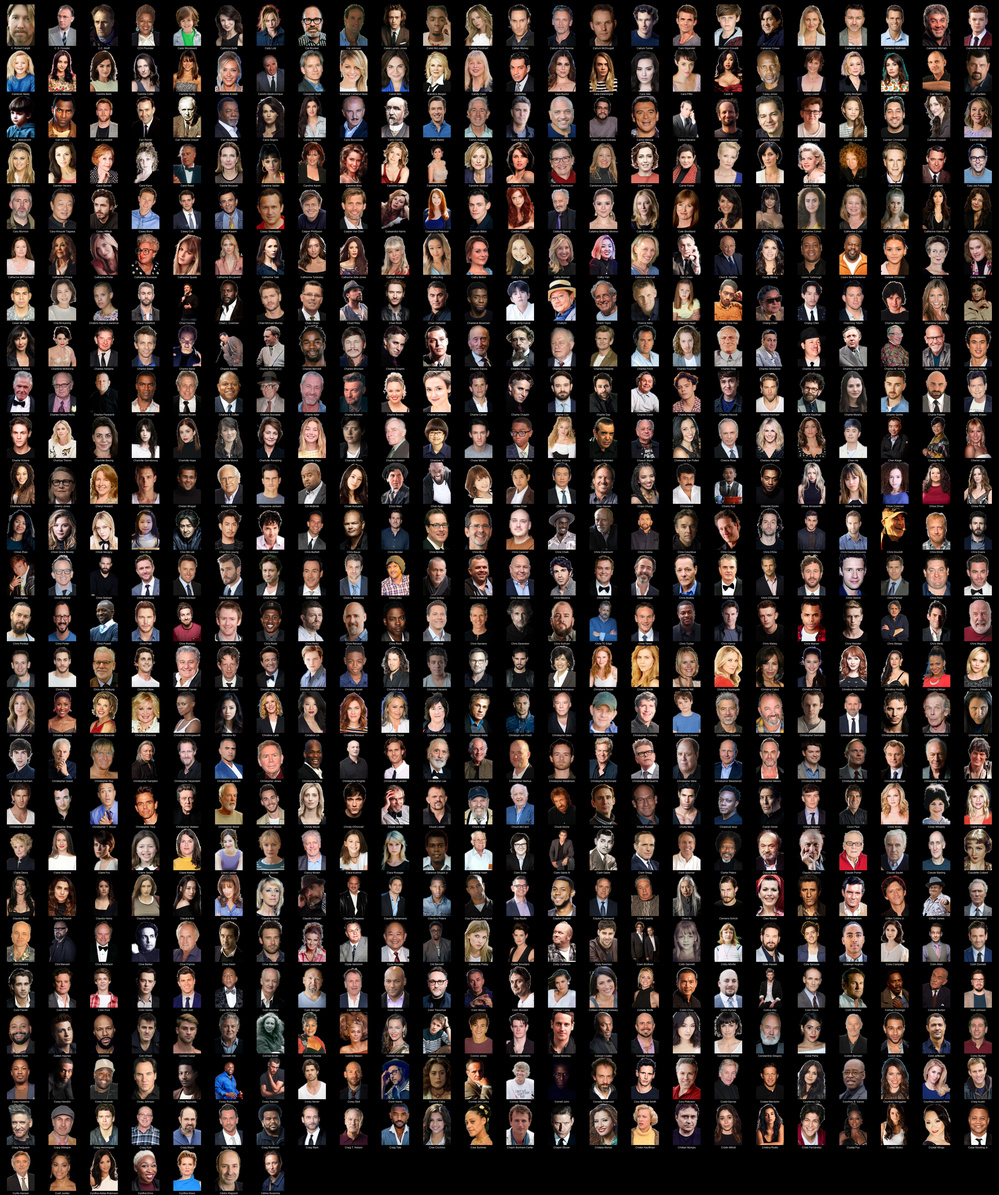
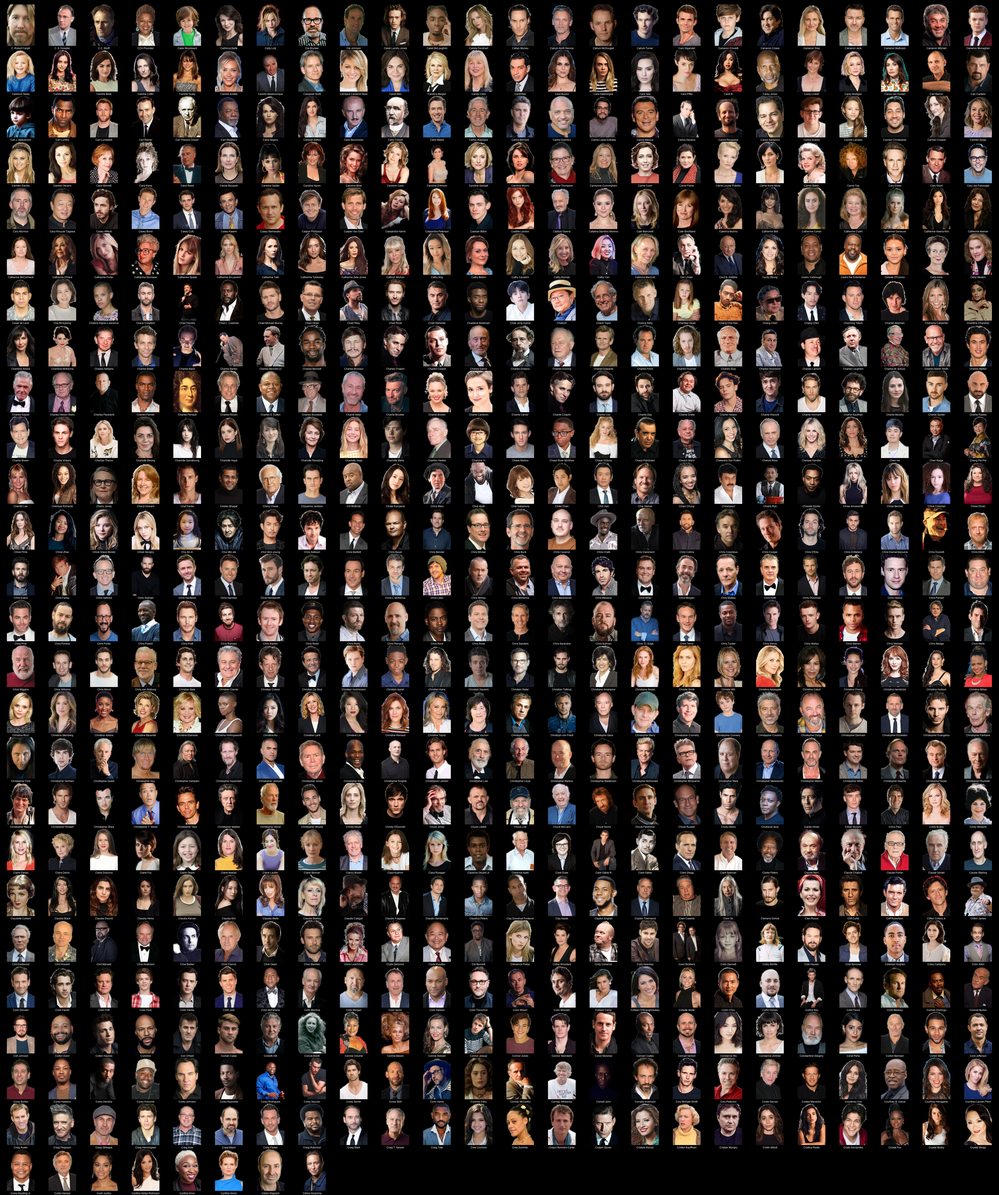
more people

Changed region(s): [[0.0, 0.3118, 1.0, 1.0]]

diff --git a/README.md b/README.md
@@ -1,4 +1,4 @@
-# Kometa People Images - Transparent (transparent) (9362 Images)
+# Kometa People Images - Transparent (transparent) (9366 Images)
 
 <details><summary><a href="'">' (1 Images)</a></summary>
 
@@ -1246,7 +1246,7 @@
 * [Béla Tarr](https://raw.githubusercontent.com/Kometa-Team/People-Images-transparent/master/B/Images/B%C3%A9la%20Tarr.png)
 * [Bérénice Bejo](https://raw.githubusercontent.com/Kometa-Team/People-Images-transparent/master/B/Images/B%C3%A9r%C3%A9nice%20Bejo.png)
 </details>
-<details><summary><a href="C">C (607 Images)</a></summary>
+<details><summary><a href="C">C (608 Images)</a></summary>
 
 * [C. Robert Cargill](https://raw.githubusercontent.com/Kometa-Team/People-Images-transparent/master/C/Images/C.%20Robert%20Cargill.png)
 * [C. S. Forester](https://raw.githubusercontent.com/Kometa-Team/People-Images-transparent/master/C/Images/C.%20S.%20Forester.png)
@@ -1444,6 +1444,7 @@
 * [Charles Nelson Reilly](https://raw.githubusercontent.com/Kometa-Team/People-Images-transparent/master/C/Images/Charles%20Nelson%20Reilly.png)
 * [Charles Paraventi](https://raw.githubusercontent.com/Kometa-Team/People-Images-transparent/master/C/Images/Charles%20Paraventi.png)
 * [Charles Parnell](https://raw.githubusercontent.com/Kometa-Team/People-Images-transparent/master/C/Images/Charles%20Parnell.png)
+* [Charles Perrault](https://raw.githubusercontent.com/Kometa-Team/People-Images-transparent/master/C/Images/Charles%20Perrault.png)
 * [Charles Roven](https://raw.githubusercontent.com/Kometa-Team/People-Images-transparent/master/C/Images/Charles%20Roven.png)
 * [Charles S. Dutton](https://raw.githubusercontent.com/Kometa-Team/People-Images-transparent/master/C/Images/Charles%20S.%20Dutton.png)
 * [Charles Scorsese](https://raw.githubusercontent.com/Kometa-Team/People-Images-transparent/master/C/Images/Charles%20Scorsese.png)
@@ -2978,7 +2979,7 @@
 * [Fritz von Friedl](https://raw.githubusercontent.com/Kometa-Team/People-Images-transparent/master/F/Images/Fritz%20von%20Friedl.png)
 * [Frédéric North](https://raw.githubusercontent.com/Kometa-Team/People-Images-transparent/master/F/Images/Fr%C3%A9d%C3%A9ric%20North.png)
 </details>
-<details><summary><a href="G">G (319 Images)</a></summary>
+<details><summary><a href="G">G (320 Images)</a></summary>
 
 * [G-Eazy](https://raw.githubusercontent.com/Kometa-Team/People-Images-transparent/master/G/Images/G-Eazy.png)
 * [G. D. Spradlin](https://raw.githubusercontent.com/Kometa-Team/People-Images-transparent/master/G/Images/G.%20D.%20Spradlin.png)
@@ -3208,6 +3209,7 @@
 * [Goran Kostić](https://raw.githubusercontent.com/Kometa-Team/People-Images-transparent/master/G/Images/Goran%20Kosti%C4%87.png)
 * [Goran Visnjic](https://raw.githubusercontent.com/Kometa-Team/People-Images-transparent/master/G/Images/Goran%20Visnjic.png)
 * [Gordon Danniels](https://raw.githubusercontent.com/Kometa-Team/People-Images-transparent/master/G/Images/Gordon%20Danniels.png)
+* [Gordon Gray](https://raw.githubusercontent.com/Kometa-Team/People-Images-transparent/master/G/Images/Gordon%20Gray.png)
 * [Gordon Hessler](https://raw.githubusercontent.com/Kometa-Team/People-Images-transparent/master/G/Images/Gordon%20Hessler.png)
 * [Gordon Liu Chia-Hui](https://raw.githubusercontent.com/Kometa-Team/People-Images-transparent/master/G/Images/Gordon%20Liu%20Chia-Hui.png)
 * [Gordon Ramsay](https://raw.githubusercontent.com/Kometa-Team/People-Images-transparent/master/G/Images/Gordon%20Ramsay.png)
@@ -5659,7 +5661,7 @@
 * [Léa Seydoux](https://raw.githubusercontent.com/Kometa-Team/People-Images-transparent/master/L/Images/L%C3%A9a%20Seydoux.png)
 * [Lúcio Andrey](https://raw.githubusercontent.com/Kometa-Team/People-Images-transparent/master/L/Images/L%C3%BAcio%20Andrey.png)
 </details>
-<details><summary><a href="M">M (870 Images)</a></summary>
+<details><summary><a href="M">M (871 Images)</a></summary>
 
 * [M'laah Kaur Singh](https://raw.githubusercontent.com/Kometa-Team/People-Images-transparent/master/M/Images/M%27laah%20Kaur%20Singh.png)
 * [M. Emmet Walsh](https://raw.githubusercontent.com/Kometa-Team/People-Images-transparent/master/M/Images/M.%20Emmet%20Walsh.png)
@@ -6427,6 +6429,7 @@
 * [Mike Starr](https://raw.githubusercontent.com/Kometa-Team/People-Images-transparent/master/M/Images/Mike%20Starr.png)
 * [Mike Troll](https://raw.githubusercontent.com/Kometa-Team/People-Images-transparent/master/M/Images/Mike%20Troll.png)
 * [Mike Vogel](https://raw.githubusercontent.com/Kometa-Team/People-Images-transparent/master/M/Images/Mike%20Vogel.png)
+* [Mike White](https://raw.githubusercontent.com/Kometa-Team/People-Images-transparent/master/M/Images/Mike%20White.png)
 * [Mikhail Gorevoy](https://raw.githubusercontent.com/Kometa-Team/People-Images-transparent/master/M/Images/Mikhail%20Gorevoy.png)
 * [Miki Esparbé](https://raw.githubusercontent.com/Kometa-Team/People-Images-transparent/master/M/Images/Miki%20Esparb%C3%A9.png)
 * [Mikkel Boe Følsgaard](https://raw.githubusercontent.com/Kometa-Team/People-Images-transparent/master/M/Images/Mikkel%20Boe%20F%C3%B8lsgaard.png)
@@ -6532,7 +6535,7 @@
 * [Måns Nathanaelson](https://raw.githubusercontent.com/Kometa-Team/People-Images-transparent/master/M/Images/M%C3%A5ns%20Nathanaelson.png)
 * [Mélanie Laurent](https://raw.githubusercontent.com/Kometa-Team/People-Images-transparent/master/M/Images/M%C3%A9lanie%20Laurent.png)
 </details>
-<details><summary><a href="N">N (261 Images)</a></summary>
+<details><summary><a href="N">N (262 Images)</a></summary>
 
 * [N.T. Rama Rao Jr.](https://raw.githubusercontent.com/Kometa-Team/People-Images-transparent/master/N/Images/N.T.%20Rama%20Rao%20Jr..png)
 * [Na Hong-jin](https://raw.githubusercontent.com/Kometa-Team/People-Images-transparent/master/N/Images/Na%20Hong-jin.png)
@@ -6687,6 +6690,7 @@
 * [Nick Park](https://raw.githubusercontent.com/Kometa-Team/People-Images-transparent/master/N/Images/Nick%20Park.png)
 * [Nick Robinson](https://raw.githubusercontent.com/Kometa-Team/People-Images-transparent/master/N/Images/Nick%20Robinson.png)
 * [Nick Sagar](https://raw.githubusercontent.com/Kometa-Team/People-Images-transparent/master/N/Images/Nick%20Sagar.png)
+* [Nick Schenk](https://raw.githubusercontent.com/Kometa-Team/People-Images-transparent/master/N/Images/Nick%20Schenk.png)
 * [Nick Searcy](https://raw.githubusercontent.com/Kometa-Team/People-Images-transparent/master/N/Images/Nick%20Searcy.png)
 * [Nick Swardson](https://raw.githubusercontent.com/Kometa-Team/People-Images-transparent/master/N/Images/Nick%20Swardson.png)
 * [Nick Thune](https://raw.githubusercontent.com/Kometa-Team/People-Images-transparent/master/N/Images/Nick%20Thune.png)

diff --git a/C/README.md b/C/README.md
@@ -1,4 +1,4 @@
-# Kometa People Images - Transparent (transparent) - C (607 Images)
+# Kometa People Images - Transparent (transparent) - C (608 Images)
 ![Grid](grid.jpg)
 
 * [C. Robert Cargill](https://raw.githubusercontent.com/Kometa-Team/People-Images-transparent/master/C/Images/C.%20Robert%20Cargill.png)
@@ -197,6 +197,7 @@
 * [Charles Nelson Reilly](https://raw.githubusercontent.com/Kometa-Team/People-Images-transparent/master/C/Images/Charles%20Nelson%20Reilly.png)
 * [Charles Paraventi](https://raw.githubusercontent.com/Kometa-Team/People-Images-transparent/master/C/Images/Charles%20Paraventi.png)
 * [Charles Parnell](https://raw.githubusercontent.com/Kometa-Team/People-Images-transparent/master/C/Images/Charles%20Parnell.png)
+* [Charles Perrault](https://raw.githubusercontent.com/Kometa-Team/People-Images-transparent/master/C/Images/Charles%20Perrault.png)
 * [Charles Roven](https://raw.githubusercontent.com/Kometa-Team/People-Images-transparent/master/C/Images/Charles%20Roven.png)
 * [Charles S. Dutton](https://raw.githubusercontent.com/Kometa-Team/People-Images-transparent/master/C/Images/Charles%20S.%20Dutton.png)
 * [Charles Scorsese](https://raw.githubusercontent.com/Kometa-Team/People-Images-transparent/master/C/Images/Charles%20Scorsese.png)

diff --git a/M/README.md b/M/README.md
@@ -1,4 +1,4 @@
-# Kometa People Images - Transparent (transparent) - M (870 Images)
+# Kometa People Images - Transparent (transparent) - M (871 Images)
 ![Grid](grid.jpg)
 
 * [M'laah Kaur Singh](https://raw.githubusercontent.com/Kometa-Team/People-Images-transparent/master/M/Images/M%27laah%20Kaur%20Singh.png)
@@ -767,6 +767,7 @@
 * [Mike Starr](https://raw.githubusercontent.com/Kometa-Team/People-Images-transparent/master/M/Images/Mike%20Starr.png)
 * [Mike Troll](https://raw.githubusercontent.com/Kometa-Team/People-Images-transparent/master/M/Images/Mike%20Troll.png)
 * [Mike Vogel](https://raw.githubusercontent.com/Kometa-Team/People-Images-transparent/master/M/Images/Mike%20Vogel.png)
+* [Mike White](https://raw.githubusercontent.com/Kometa-Team/People-Images-transparent/master/M/Images/Mike%20White.png)
 * [Mikhail Gorevoy](https://raw.githubusercontent.com/Kometa-Team/People-Images-transparent/master/M/Images/Mikhail%20Gorevoy.png)
 * [Miki Esparbé](https://raw.githubusercontent.com/Kometa-Team/People-Images-transparent/master/M/Images/Miki%20Esparb%C3%A9.png)
 * [Mikkel Boe Følsgaard](https://raw.githubusercontent.com/Kometa-Team/People-Images-transparent/master/M/Images/Mikkel%20Boe%20F%C3%B8lsgaard.png)

diff --git a/G/README.md b/G/README.md
@@ -1,4 +1,4 @@
-# Kometa People Images - Transparent (transparent) - G (319 Images)
+# Kometa People Images - Transparent (transparent) - G (320 Images)
 ![Grid](grid.jpg)
 
 * [G-Eazy](https://raw.githubusercontent.com/Kometa-Team/People-Images-transparent/master/G/Images/G-Eazy.png)
@@ -229,6 +229,7 @@
 * [Goran Kostić](https://raw.githubusercontent.com/Kometa-Team/People-Images-transparent/master/G/Images/Goran%20Kosti%C4%87.png)
 * [Goran Visnjic](https://raw.githubusercontent.com/Kometa-Team/People-Images-transparent/master/G/Images/Goran%20Visnjic.png)
 * [Gordon Danniels](https://raw.githubusercontent.com/Kometa-Team/People-Images-transparent/master/G/Images/Gordon%20Danniels.png)
+* [Gordon Gray](https://raw.githubusercontent.com/Kometa-Team/People-Images-transparent/master/G/Images/Gordon%20Gray.png)
 * [Gordon Hessler](https://raw.githubusercontent.com/Kometa-Team/People-Images-transparent/master/G/Images/Gordon%20Hessler.png)
 * [Gordon Liu Chia-Hui](https://raw.githubusercontent.com/Kometa-Team/People-Images-transparent/master/G/Images/Gordon%20Liu%20Chia-Hui.png)
 * [Gordon Ramsay](https://raw.githubusercontent.com/Kometa-Team/People-Images-transparent/master/G/Images/Gordon%20Ramsay.png)

diff --git a/N/README.md b/N/README.md
@@ -1,4 +1,4 @@
-# Kometa People Images - Transparent (transparent) - N (261 Images)
+# Kometa People Images - Transparent (transparent) - N (262 Images)
 ![Grid](grid.jpg)
 
 * [N.T. Rama Rao Jr.](https://raw.githubusercontent.com/Kometa-Team/People-Images-transparent/master/N/Images/N.T.%20Rama%20Rao%20Jr..png)
@@ -154,6 +154,7 @@
 * [Nick Park](https://raw.githubusercontent.com/Kometa-Team/People-Images-transparent/master/N/Images/Nick%20Park.png)
 * [Nick Robinson](https://raw.githubusercontent.com/Kometa-Team/People-Images-transparent/master/N/Images/Nick%20Robinson.png)
 * [Nick Sagar](https://raw.githubusercontent.com/Kometa-Team/People-Images-transparent/master/N/Images/Nick%20Sagar.png)
+* [Nick Schenk](https://raw.githubusercontent.com/Kometa-Team/People-Images-transparent/master/N/Images/Nick%20Schenk.png)
 * [Nick Searcy](https://raw.githubusercontent.com/Kometa-Team/People-Images-transparent/master/N/Images/Nick%20Searcy.png)
 * [Nick Swardson](https://raw.githubusercontent.com/Kometa-Team/People-Images-transparent/master/N/Images/Nick%20Swardson.png)
 * [Nick Thune](https://raw.githubusercontent.com/Kometa-Team/People-Images-transparent/master/N/Images/Nick%20Thune.png)
